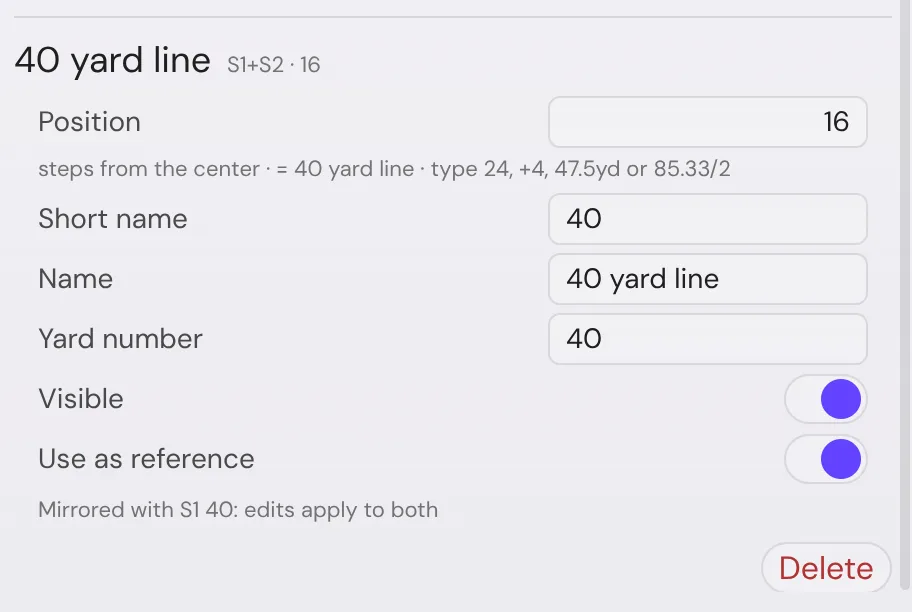
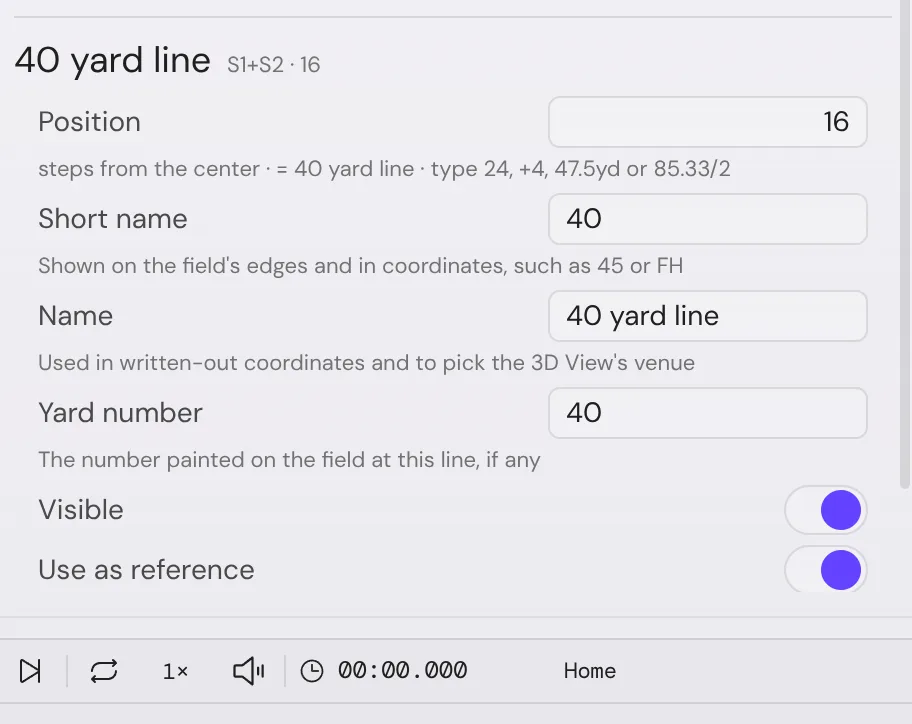
feat(field): the Line section says what each name is for (#822)
Short name, Name and Yard number show their note under the box, as the old
customizer's tooltips did. Guide picture re-recorded.

diff --git a/apps/desktop/src/field/editMode/panel/LineDetail.tsx b/apps/desktop/src/field/editMode/panel/LineDetail.tsx
@@ -198,6 +198,7 @@ function OneLine({
                 parse={orAuto(auto.terseName)}
                 placeholder={auto.terseName}
                 onCommit={(shortName) => rename({ shortName })}
+                hint={t("fieldEditMode.popover.shortNameHint")}
                 testId="field-line-short-name"
                 afterEnter={focusField}
             />
@@ -208,6 +209,7 @@ function OneLine({
                 parse={orAuto(auto.name)}
                 placeholder={auto.name}
                 onCommit={(name) => rename({ name })}
+                hint={t("fieldEditMode.popover.nameHint")}
                 testId="field-line-name"
                 afterEnter={focusField}
             />
@@ -221,6 +223,7 @@ function OneLine({
                         rename({ fieldLabel: label === "" ? null : label })
                     }
                     placeholder={t("fieldEditMode.popover.none")}
+                    hint={t("fieldEditMode.popover.yardNumberHint")}
                     testId="field-line-yard-number"
                     afterEnter={focusField}
                 />

diff --git a/apps/desktop/src/field/editMode/useDraft.ts b/apps/desktop/src/field/editMode/useDraft.ts
@@ -5,9 +5,6 @@ import { useState } from "react";
  * value. Whenever the stored value changes (undo or redo, an edit from elsewhere, this input's own
  * save) the draft starts over from it, so an input never shows a value the field no longer has
  * (B1).
- *
- * The same rule as the customizer's `useDraft` in fork PR #828; when both land, one of them
- * should go.
  */
 export function useDraft<T extends string | boolean>(
     stored: T,
